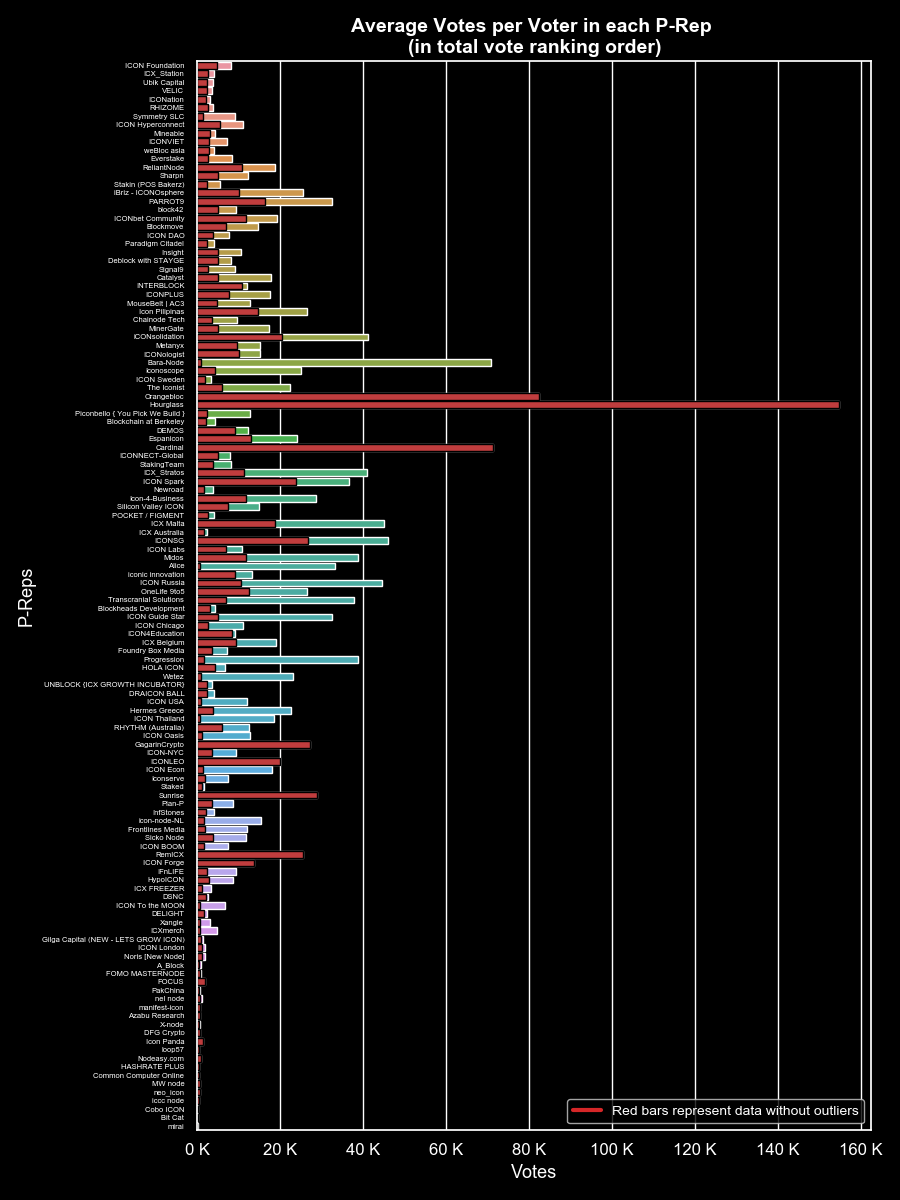
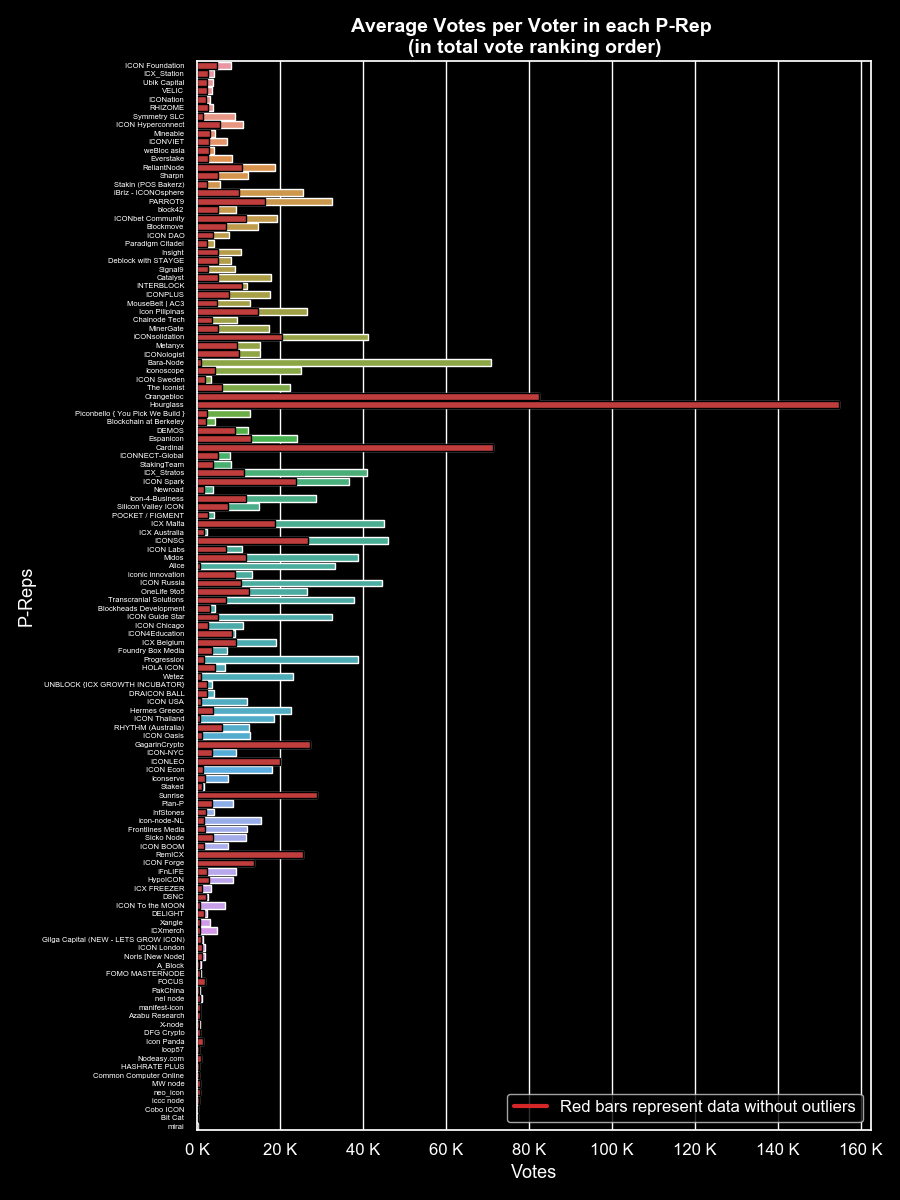
Fix legend size

Changed region(s): [[0.56, 0.8942, 0.9644, 0.9558]]

diff --git a/vote_analysis/data_extraction/5_vote_counting.py b/vote_analysis/data_extraction/5_vote_counting.py
@@ -148,7 +148,7 @@ ax2.set_title('Total Votes in each P-Rep', fontsize=14, weight='bold')
 plt.xticks(fontsize=12)
 plt.yticks(fontsize=5.5)
 red_line = mlines.Line2D([], [], color=color, label='Red bars represent data without outliers', linewidth=3)
-plt.legend(handles=[red_line], loc='lower right', fontsize='small')
+plt.legend(handles=[red_line], loc='lower right', fontsize='medium')
 plt.tight_layout()
 
 # save figure
@@ -170,7 +170,7 @@ ax2.set_title('Total Number of Voters by P-Rep \n(in total vote ranking order)',
 plt.xticks(fontsize=12)
 plt.yticks(fontsize=5.5)
 red_line = mlines.Line2D([], [], color=color, label='Red bars represent data without outliers', linewidth=3)
-plt.legend(handles=[red_line], loc='lower right', fontsize='small')
+plt.legend(handles=[red_line], loc='lower right', fontsize='medium')
 plt.tight_layout()
 
 # save figure
@@ -193,7 +193,7 @@ ax2.set_title('Average Votes per Voter in each P-Rep \n(in total vote ranking or
 plt.xticks(fontsize=12)
 plt.yticks(fontsize=5.5)
 red_line = mlines.Line2D([], [], color=color, label='Red bars represent data without outliers', linewidth=3)
-plt.legend(handles=[red_line], loc='lower right', fontsize='small')
+plt.legend(handles=[red_line], loc='lower right', fontsize='medium')
 plt.tight_layout()
 
 # save figure
